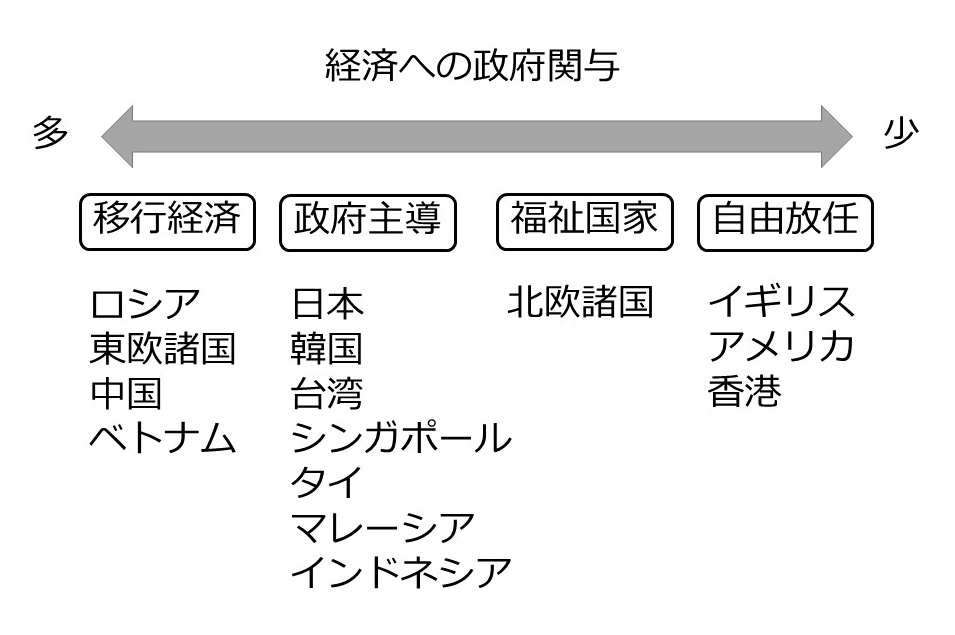
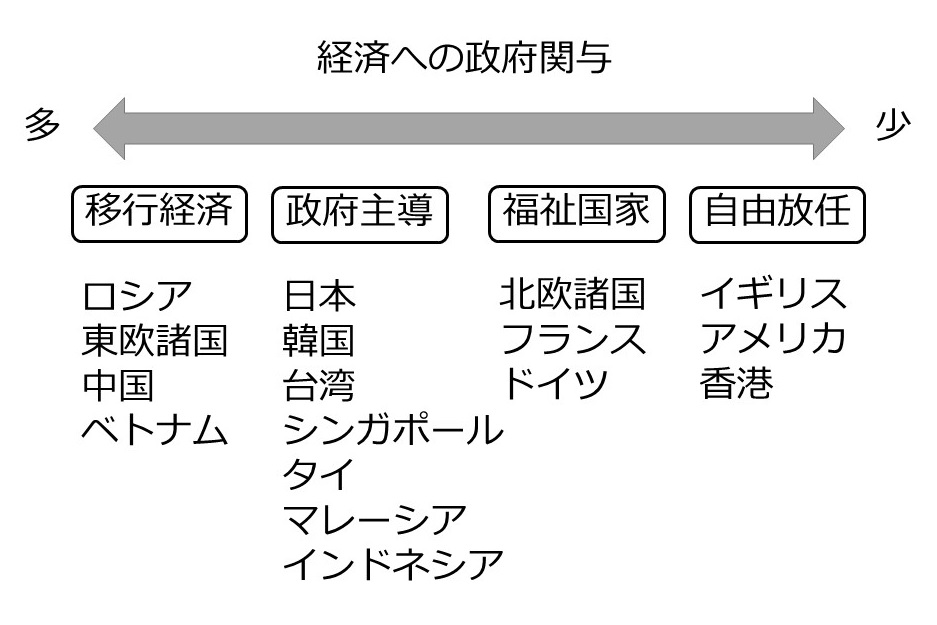
国民負担率追加

diff --git a/docs/2-2-culture.html b/docs/2-2-culture.html
@@ -962,8 +962,8 @@ https://hofstede.jp/intercultural-management/
 <li><p>世界の各国・地域のデータに関心がある場合は、下の表で確認してください。</p></li>
 <li><p>このほか<a href="https://www.hofstede-insights.com/country-comparison/">特定の国についてグラフ化して比較できるサイト（英語版）</a>や、<a href="https://geerthofstede.com/country-comparison-graphs/">複数指標間の相関関係がわかるようにグラフ化できるサイト（英語版）</a>もあるので、参考にしてください。</p></li>
 </ul>
-<div id="htmlwidget-a4ed31c191404ef5d06a" style="width:100%;height:auto;" class="datatables html-widget"></div>
-<script type="application/json" data-for="htmlwidget-a4ed31c191404ef5d06a">{"x":{"filter":"none","data":[["Africa East","Africa West","Albania","Algeria","Andorra","Arab countries","Argentina","Armenia","Australia","Austria","Azerbaijan","Bangladesh","Belarus","Belgium","Belgium French","Belgium Netherl","Bosnia","Brazil","Bulgaria","Burkina Faso","Canada","Canada French","Chile","China","Colombia","Costa Rica","Croatia","Cyprus","Czech Rep","Denmark","Dominican Rep","Ecuador","Egypt","El Salvador","Estonia","Ethiopia","Finland","France","Georgia","Germany","Germany East","Ghana","Great Britain","Greece","Guatemala","Hong Kong","Hungary","Iceland","India","Indonesia","Iran","Iraq","Ireland","Israel","Italy","Jamaica","Japan","Jordan","Korea South","Kyrgyz Rep","Latvia","Lithuania","Luxembourg","Macedonia Rep","Malaysia","Mali","Malta","Mexico","Moldova","Montenegro","Morocco","Netherlands","New Zealand","Nigeria","Norway","Pakistan","Panama","Peru","Philippines","Poland","Portugal","Puerto Rico","Romania","Russia","Rwanda","Saudi Arabia","Serbia","Singapore","Slovak Rep","Slovenia","South Africa","South Africa white","Spain","Suriname","Sweden","Switzerland","Switzerland French","Switzerland German","Taiwan","Tanzania","Thailand","Trinidad and Tobago","Turkey","U.S.A.","Uganda","Ukraine","Uruguay","Venezuela","Vietnam","Zambia","Zimbabwe"],["64","77","-","-","-","80","49","-","38","11","-","80","-","65","67","61","-","69","70","-","39","54","63","80","67","35","73","-","57","18","-","78","-","66","40","-","33","68","-","35","-","-","35","60","95","68","46","-","77","78","58","-","28","13","50","45","54","-","60","-","44","42","40","-","100","-","56","81","-","-","70","38","22","-","31","55","95","64","94","68","63","-","90","93","-","-","86","74","100","71","-","49","57","85","31","34","70","26","58","-","64","47","66","40","-","-","61","81","70","-","-"],["27","20","-","-","-","38","46","-","90","55","-","20","-","75","72","78","-","38","30","-","80","73","23","20","13","15","33","-","58","74","-","8","-","19","60","-","63","71","-","67","-","-","89","35","6","25","80","-","48","14","41","-","70","54","76","39","46","-","18","-","70","60","60","-","26","-","59","30","-","-","46","80","79","-","69","14","11","16","32","60","27","-","30","39","-","-","25","20","52","27","-","65","51","47","71","68","64","69","17","-","20","16","37","91","-","-","36","12","20","-","-"],["41","46","-","-","-","53","56","-","61","79","-","55","-","54","60","43","-","49","40","-","52","45","28","66","64","21","40","-","57","16","-","63","-","40","30","-","26","43","-","66","-","-","66","57","37","57","88","-","56","46","43","-","68","47","70","68","95","-","39","-","9","19","50","-","50","-","47","69","-","-","53","14","58","-","8","50","44","42","64","64","31","-","42","36","-","-","43","48","100","19","-","63","42","37","5","70","58","72","45","-","34","58","45","62","-","-","38","73","40","-","-"],["52","54","-","-","-","68","86","-","51","70","-","60","-","94","93","97","-","76","85","-","48","60","86","30","80","86","80","-","74","23","-","67","-","94","60","-","59","86","-","65","-","-","35","100","98","29","82","-","40","48","59","-","35","81","75","13","92","-","85","-","63","65","70","-","36","-","96","82","-","-","68","53","49","-","50","70","86","87","44","93","99","-","90","95","-","-","92","8","51","88","-","49","86","92","29","58","70","56","69","-","64","55","85","46","-","-","98","76","30","-","-"],["32","9","61","26","-","23","20","61","21","60","61","47","81","82","-","-","70","44","69","27","36","-","31","87","13","-","58","-","70","35","13","-","7","20","82","-","38","63","38","83","78","4","51","45","-","61","58","28","51","62","14","25","24","38","61","-","88","16","100","66","69","82","64","62","41","20","47","24","71","75","14","67","33","13","35","50","-","25","27","38","28","0","52","81","18","36","52","72","77","49","34","-","48","-","53","74","-","-","93","34","32","13","46","26","24","86","26","16","57","30","15"],["40","78","15","32","65","34","62","-","71","63","22","20","15","57","-","-","44","59","16","18","68","-","68","24","83","-","33","70","29","70","54","-","4","89","16","46","57","48","32","40","34","72","69","50","-","17","31","67","26","38","40","17","65","-","30","-","42","43","29","39","13","16","56","35","57","43","66","97","19","20","25","68","75","84","55","0","-","46","42","29","33","90","20","20","37","52","28","46","28","48","63","-","44","-","78","66","-","-","49","38","45","80","49","68","52","14","53","100","35","42","28"]],"container":"<table class=\"display\">\n  <thead>\n    <tr>\n      <th>国・地域名<\/th>\n      <th>権力格差<\/th>\n      <th>集団・個人主義<\/th>\n      <th>女性・男性性<\/th>\n      <th>不確実性回避<\/th>\n      <th>短期・長期志向<\/th>\n      <th>抑制・充足<\/th>\n    <\/tr>\n  <\/thead>\n<\/table>","options":{"order":[],"autoWidth":false,"orderClasses":false}},"evals":[],"jsHooks":[]}</script>
+<div id="htmlwidget-42b77485722f5d19545f" style="width:100%;height:auto;" class="datatables html-widget"></div>
+<script type="application/json" data-for="htmlwidget-42b77485722f5d19545f">{"x":{"filter":"none","data":[["Africa East","Africa West","Albania","Algeria","Andorra","Arab countries","Argentina","Armenia","Australia","Austria","Azerbaijan","Bangladesh","Belarus","Belgium","Belgium French","Belgium Netherl","Bosnia","Brazil","Bulgaria","Burkina Faso","Canada","Canada French","Chile","China","Colombia","Costa Rica","Croatia","Cyprus","Czech Rep","Denmark","Dominican Rep","Ecuador","Egypt","El Salvador","Estonia","Ethiopia","Finland","France","Georgia","Germany","Germany East","Ghana","Great Britain","Greece","Guatemala","Hong Kong","Hungary","Iceland","India","Indonesia","Iran","Iraq","Ireland","Israel","Italy","Jamaica","Japan","Jordan","Korea South","Kyrgyz Rep","Latvia","Lithuania","Luxembourg","Macedonia Rep","Malaysia","Mali","Malta","Mexico","Moldova","Montenegro","Morocco","Netherlands","New Zealand","Nigeria","Norway","Pakistan","Panama","Peru","Philippines","Poland","Portugal","Puerto Rico","Romania","Russia","Rwanda","Saudi Arabia","Serbia","Singapore","Slovak Rep","Slovenia","South Africa","South Africa white","Spain","Suriname","Sweden","Switzerland","Switzerland French","Switzerland German","Taiwan","Tanzania","Thailand","Trinidad and Tobago","Turkey","U.S.A.","Uganda","Ukraine","Uruguay","Venezuela","Vietnam","Zambia","Zimbabwe"],["64","77","-","-","-","80","49","-","38","11","-","80","-","65","67","61","-","69","70","-","39","54","63","80","67","35","73","-","57","18","-","78","-","66","40","-","33","68","-","35","-","-","35","60","95","68","46","-","77","78","58","-","28","13","50","45","54","-","60","-","44","42","40","-","100","-","56","81","-","-","70","38","22","-","31","55","95","64","94","68","63","-","90","93","-","-","86","74","100","71","-","49","57","85","31","34","70","26","58","-","64","47","66","40","-","-","61","81","70","-","-"],["27","20","-","-","-","38","46","-","90","55","-","20","-","75","72","78","-","38","30","-","80","73","23","20","13","15","33","-","58","74","-","8","-","19","60","-","63","71","-","67","-","-","89","35","6","25","80","-","48","14","41","-","70","54","76","39","46","-","18","-","70","60","60","-","26","-","59","30","-","-","46","80","79","-","69","14","11","16","32","60","27","-","30","39","-","-","25","20","52","27","-","65","51","47","71","68","64","69","17","-","20","16","37","91","-","-","36","12","20","-","-"],["41","46","-","-","-","53","56","-","61","79","-","55","-","54","60","43","-","49","40","-","52","45","28","66","64","21","40","-","57","16","-","63","-","40","30","-","26","43","-","66","-","-","66","57","37","57","88","-","56","46","43","-","68","47","70","68","95","-","39","-","9","19","50","-","50","-","47","69","-","-","53","14","58","-","8","50","44","42","64","64","31","-","42","36","-","-","43","48","100","19","-","63","42","37","5","70","58","72","45","-","34","58","45","62","-","-","38","73","40","-","-"],["52","54","-","-","-","68","86","-","51","70","-","60","-","94","93","97","-","76","85","-","48","60","86","30","80","86","80","-","74","23","-","67","-","94","60","-","59","86","-","65","-","-","35","100","98","29","82","-","40","48","59","-","35","81","75","13","92","-","85","-","63","65","70","-","36","-","96","82","-","-","68","53","49","-","50","70","86","87","44","93","99","-","90","95","-","-","92","8","51","88","-","49","86","92","29","58","70","56","69","-","64","55","85","46","-","-","98","76","30","-","-"],["32","9","61","26","-","23","20","61","21","60","61","47","81","82","-","-","70","44","69","27","36","-","31","87","13","-","58","-","70","35","13","-","7","20","82","-","38","63","38","83","78","4","51","45","-","61","58","28","51","62","14","25","24","38","61","-","88","16","100","66","69","82","64","62","41","20","47","24","71","75","14","67","33","13","35","50","-","25","27","38","28","0","52","81","18","36","52","72","77","49","34","-","48","-","53","74","-","-","93","34","32","13","46","26","24","86","26","16","57","30","15"],["40","78","15","32","65","34","62","-","71","63","22","20","15","57","-","-","44","59","16","18","68","-","68","24","83","-","33","70","29","70","54","-","4","89","16","46","57","48","32","40","34","72","69","50","-","17","31","67","26","38","40","17","65","-","30","-","42","43","29","39","13","16","56","35","57","43","66","97","19","20","25","68","75","84","55","0","-","46","42","29","33","90","20","20","37","52","28","46","28","48","63","-","44","-","78","66","-","-","49","38","45","80","49","68","52","14","53","100","35","42","28"]],"container":"<table class=\"display\">\n  <thead>\n    <tr>\n      <th>国・地域名<\/th>\n      <th>権力格差<\/th>\n      <th>集団・個人主義<\/th>\n      <th>女性・男性性<\/th>\n      <th>不確実性回避<\/th>\n      <th>短期・長期志向<\/th>\n      <th>抑制・充足<\/th>\n    <\/tr>\n  <\/thead>\n<\/table>","options":{"order":[],"autoWidth":false,"orderClasses":false}},"evals":[],"jsHooks":[]}</script>
 <p>出所）<a href="https://geerthofstede.com/research-and-vsm/dimension-data-matrix/">geerthofstede.com</a></p>
 </div>
 </div>
@@ -1020,7 +1020,9 @@ https://hofstede.jp/intercultural-management/
 <p>Hall, Edward T. (1983). The Dance of Life: The Other Dimension of Time. Anchor Books.（日本語版　岩田慶治・谷泰（訳）(1983)『文化としての時間』TBSブリタニカ.）</p>
 <p>Hofstede, G, G. J. Hofstede, and M. Minkov (2010). Cultures and Organizations: Software of the Mind, Third Edition. McGraw-Hill Education.（日本語版　岩井八郎・岩井紀子（訳）(2013)『多文化世界　違いを学び未来への道を探る　原書第3版』有斐閣.）</p>
 <p>Wursten, H. (2019). The 7 Mental Images of National Culture: Leading and Managing in a Globalized World. Amazon Books.</p>
+<p><a href="https://iw-inc.jp/2019/11/09/multienvironment01/">株式会社IW “「できるだけ〜」を使わない。多文化環境で学んだ外国人と働く上での心がけ。”</a></p>
 <p><a href="https://www.cicombrains.com/opinions/02/02-181106mk.html">勝幹子 (2018), “｢7つの文化圏」と「メンタルイメージ」で理解する、世界のビジネスの進め方,” Cicom Brains.</a></p>
+<p><a href="https://www.hitachi-systems.com/report/specialist/psychology/06.html">株式会社日立システムズ “あなたの職場はハイコン？ローコン？”</a></p>
 </div>
 </div>
 </div>

diff --git a/docs/2-4-economy.html b/docs/2-4-economy.html
@@ -243,7 +243,11 @@
 <li><p>資本主義といっても経済への政府関与の程度には国によって差があります（図<a href="2-4-economy.html#fig:poleco">2.20</a>）。</p>
 <ul>
 <li><p>経済への政府関与の程度が最も低いのが「自由放任」で、アングロ系（イギリス、アメリカ、カナダ、オーストラリア、ニュージーランド、アイルランド）や都市国家（香港、ルクセンブルクなど）が該当します。</p></li>
-<li><p>市場経済を中心としながら、福祉分野への政府関与の程度が高いのが「福祉国家」で、北欧諸国、ドイツ、フランスが該当します。</p></li>
+<li><p>市場経済を中心としながら、福祉分野への政府関与の程度が高いのが「福祉国家」で、北欧諸国、ドイツ、フランスが該当します。</p>
+<ul>
+<li><p>租税負担及び社会保障負担を合わせた義務的な公的負担の国民所得に対する比率を「国民負担率」<a href="#fn5" class="footnote-ref" id="fnref5"><sup>5</sup></a>といいます。「福祉国家」の国々は国民負担率が高い一方で、失業手当や職業訓練などの社会保障制度が充実しています。「自由放任」の国、とくにアメリカは国民負担率が低い一方、健康保険などの社会保障制度が手薄です（図<a href="2-4-economy.html#fig:burden1">2.21</a>）。</p></li>
+<li><p>日本は国際的にみると低負担のほうに位置します（図<a href="2-4-economy.html#fig:burden2">2.22</a>）。かつては「低負担・中福祉」の国といわれていましたが、国民負担率は年々上昇しています（図<a href="2-4-economy.html#fig:burden3">2.23</a>）。</p></li>
+</ul></li>
 <li><p>市場経済を基本としながら、民間部門の経済活動支援（税制・金融支援、経済計画設定など）に積極的なのが「政府主導資本主義」で、日本、韓国、台湾、シンガポール、マレーシア、タイなどアジアの多くの国が該当します。</p></li>
 <li><p>中国は1990年代以降「社会主義市場経済」という、「資源は政府によって所有」という社会主義を維持しつつ、「市場競争によって資源配分」される市場経済になっています。ベトナムも同様です。</p></li>
 </ul></li>
@@ -254,8 +258,29 @@
 図 2.20: 経済への政府関与
 </p>
 </div>
+<div class="figure"><span id="fig:burden1"></span>
+<img src="https://www.mof.go.jp/tax_policy/summary/condition/020.gif" alt="国民負担率（対国民所得比）の内訳の国際比較（日米英独仏瑞）" width="960px" />
+<p class="caption">
+図 2.21: 国民負担率（対国民所得比）の内訳の国際比較（日米英独仏瑞）
+</p>
+</div>
+<p>出所）<a href="https://www.mof.go.jp/tax_policy/summary/condition/a04.htm">財務省 “負担率に関する資料”</a></p>
+<div class="figure"><span id="fig:burden2"></span>
+<img src="https://www.mof.go.jp/tax_policy/summary/condition/238.gif" alt="国民負担率（対国民所得比）の国際比較（OECD加盟34カ国）" width="960px" />
+<p class="caption">
+図 2.22: 国民負担率（対国民所得比）の国際比較（OECD加盟34カ国）
+</p>
+</div>
+<p>出所）図<a href="2-4-economy.html#fig:burden1">2.21</a>と同じ</p>
+<div class="figure"><span id="fig:burden3"></span>
+<img src="https://www.mof.go.jp/tax_policy/summary/condition/019.gif" alt="国民負担率の推移" width="960px" />
+<p class="caption">
+図 2.23: 国民負担率の推移
+</p>
+</div>
+<p>出所）図<a href="2-4-economy.html#fig:burden1">2.21</a>と同じ</p>
 <ul>
-<li><p>資本主義・市場経済におけるその他の各国間の違いとして、企業の「所有と経営の分離」があります（図<a href="2-4-economy.html#fig:separation">2.21</a>）。</p>
+<li><p>資本主義・市場経済におけるその他の各国間の違いとして、企業の「所有と経営の分離」があります（図<a href="2-4-economy.html#fig:separation">2.24</a>）。</p>
 <ul>
 <li><p>中小企業では経営者が出資者であること、すわなちオーナー経営者がほとんどです。</p></li>
 <li><p>大企業になるにしたがって一人で出資金を出すことが難しくなったり、大きくなった企業を経営する能力に限界を感じるようになります。</p></li>
@@ -264,7 +289,7 @@
 <li><p>「所有と経営の分離」の状況によって、いくつかのグループに分けることができます。</p>
 <ul>
 <li><p>所有者と経営者が分離していて、経営者は主として所有者＝株主（投資家）のために経営を行うのが、「株主資本主義」です。アメリカとイギリスがその代表的存在です。<a href="2-3-politics-and-law.html#law">法制度</a>はコモン・ローである国が多いです。</p></li>
-<li><p>所有者と経営者が分離していて、株主以外（従業員・地域）にも配慮した経営を行うのが、「ステークホルダー<a href="#fn5" class="footnote-ref" id="fnref5"><sup>5</sup></a>資本主義」です。西欧諸国や日本が該当します。<a href="2-3-politics-and-law.html#law">法制度</a>はシビル・ローである国が多いです。</p></li>
+<li><p>所有者と経営者が分離していて、株主以外（従業員・地域）にも配慮した経営を行うのが、「ステークホルダー<a href="#fn6" class="footnote-ref" id="fnref6"><sup>6</sup></a>資本主義」です。西欧諸国や日本が該当します。<a href="2-3-politics-and-law.html#law">法制度</a>はシビル・ローである国が多いです。</p></li>
 <li><p>所有者と経営者が分離してなく、大企業でも家族経営が多いのが「家族資本主義」です。多くの新興国が該当します。<a href="2-3-politics-and-law.html#law">法制度</a>の整備が十分でない国であることが多く、関係性による契約強制力が相対的に重要となっています。</p></li>
 <li><p>所有者と経営者が分離してなく、経営者の個人的縁故（コネ）がビジネスに影響するのが、「縁故資本主義」です。「家族資本主義」でもあることが多く、アジア、ラテンアメリカ、アラブの多くの国が該当します。</p></li>
 </ul></li>
@@ -272,9 +297,12 @@
 <div class="figure"><span id="fig:separation"></span>
 <img src="separation.jpg" alt="所有と経営の分離" width="960px" />
 <p class="caption">
-図 2.21: 所有と経営の分離
+図 2.24: 所有と経営の分離
 </p>
 </div>
+<p><span style="font-size: 150%"><strong>参考文献</strong></span></p>
+<p><a href="https://www3.nhk.or.jp/news/special/sakusakukeizai/articles/20200302.html">NHK (2020)「高すぎる？ 国民負担率」</a></p>
+<p><a href="https://www.mof.go.jp/tax_policy/summary/condition/a04.htm">財務省「負担率に関する資料」</a></p>
 
 </div>
 </div>
@@ -282,7 +310,8 @@
 <div class="footnotes">
 <hr />
 <ol start="5">
-<li id="fn5"><p>ステークホルダーとは利害関係者という意味です。 <a href="1-2-factor.html#common">1.2.2</a> <a href="1-2-factor.html#common">各国企業の共通点</a>の注を参考にしてください。<a href="2-4-economy.html#fnref5" class="footnote-back">↩</a></p></li>
+<li id="fn5"><p>国民負担率については、<a href="https://www3.nhk.or.jp/news/special/sakusakukeizai/articles/20200302.html">NHK(2020)</a>も参考にしてください。<a href="2-4-economy.html#fnref5" class="footnote-back">↩</a></p></li>
+<li id="fn6"><p>ステークホルダーとは利害関係者という意味です。 <a href="1-2-factor.html#common">1.2.2</a> <a href="1-2-factor.html#common">各国企業の共通点</a>の注を参考にしてください。<a href="2-4-economy.html#fnref6" class="footnote-back">↩</a></p></li>
 </ol>
 </div>
             </section>
